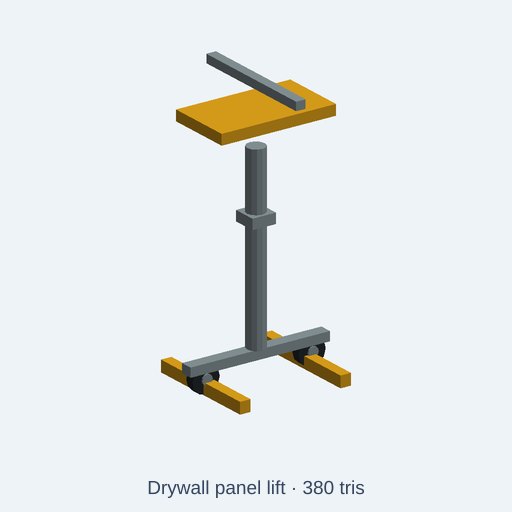
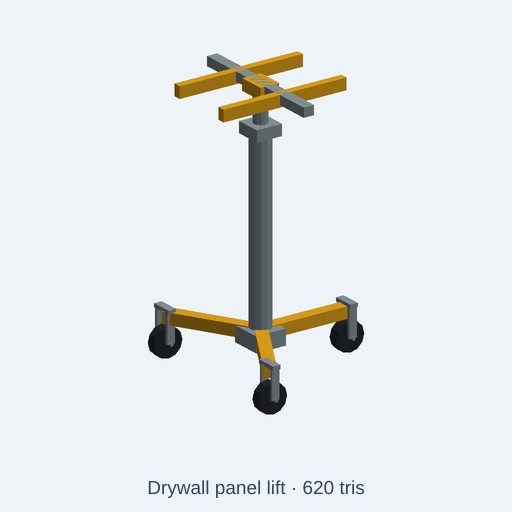
fix(catalog): connect lift supports and contain cylinder bank

Changed region(s): [[0.2812, 0.0938, 0.7188, 0.8125], [0.5938, 0.9375, 0.625, 0.9688]]

diff --git a/tests/integration/catalog/assetSupportContinuity.test.ts b/tests/integration/catalog/assetSupportContinuity.test.ts
@@ -1,0 +1,155 @@
+// SPDX-License-Identifier: MIT
+// Static CC0 prop geometry only. These tests do not certify load or pressure capacity.
+import { readFileSync } from 'node:fs';
+import { resolve } from 'node:path';
+import { NodeIO } from '@gltf-transform/core';
+import { beforeAll, describe, expect, it } from 'vitest';
+import { initOcct } from '../../../src/kernel/backends/occt/occtBackend';
+import { buildCatalogAssetWithGlb } from '../../../src/agent/catalog/buildCatalog';
+import { runAndExport } from '../../../src/agent/script-runtime/export';
+
+type Bounds = { min: number[]; max: number[] };
+const root = resolve(import.meta.dirname, '../../..');
+const liftFile = 'catalog/kits/construction-equipment/drywall-panel-lift.kcad.ts';
+const bankFile = 'catalog/kits/grid-substation/substation-fire-suppression-cylinder-bank.kcad.ts';
+const read = (file: string) => readFileSync(resolve(root, file), 'utf8');
+const tolerance = 0.05; // Native GLB positions, in mm.
+
+async function namedBounds(bytes: Uint8Array): Promise<Map<string, Bounds>> {
+  const doc = await new NodeIO().readBinary(bytes);
+  const result = new Map<string, Bounds>();
+  for (const node of doc.getRoot().listNodes()) {
+    const mesh = node.getMesh();
+    if (!mesh) continue;
+    const matrix = node.getWorldMatrix();
+    const points = mesh.listPrimitives().flatMap((primitive) => {
+      const position = primitive.getAttribute('POSITION');
+      if (!position) return [];
+      return Array.from({ length: position.getCount() }, (_, index) => {
+        const point = position.getElement(index, []);
+        return [0, 1, 2].map((axis) => 1000 * (matrix[axis]! * point[0]!
+          + matrix[axis + 4]! * point[1]! + matrix[axis + 8]! * point[2]! + matrix[axis + 12]!));
+      });
+    });
+    result.set(node.getName(), {
+      min: [0, 1, 2].map((axis) => Math.min(...points.map((point) => point[axis]!))),
+      max: [0, 1, 2].map((axis) => Math.max(...points.map((point) => point[axis]!))),
+    });
+  }
+  return result;
+}
+
+const touches = (a: Bounds, b: Bounds) => [0, 1, 2].every((axis) =>
+  a.max[axis]! + tolerance >= b.min[axis]! && b.max[axis]! + tolerance >= a.min[axis]!);
+const center = (bounds: Bounds, axis: number) => (bounds.min[axis]! + bounds.max[axis]!) / 2;
+
+function bankFailures(parts: Map<string, Bounds>): string[] {
+  const failures: string[] = [];
+  const rack = parts.get('rack-base')!;
+  const header = parts.get('manifold-header')!;
+  for (let i = 1; i <= 5; i++) {
+    const bottle = parts.get(`cylinder-${i}`);
+    const valve = parts.get(`valve-${i}`);
+    const branch = parts.get(`manifold-branch-${i}`);
+    if (!bottle || !valve) { failures.push(`bottle-${i}: missing`); continue; }
+    if ([0, 2].some((axis) => bottle.min[axis]! < rack.min[axis]! - tolerance
+      || bottle.max[axis]! > rack.max[axis]! + tolerance)) failures.push(`bottle-${i}: outside rack`);
+    if (Math.abs(bottle.min[1]! - rack.max[1]!) > tolerance) failures.push(`bottle-${i}: unseated`);
+    if (!touches(bottle, valve)) failures.push(`valve-${i}: floating`);
+    if (!branch || !touches(branch, valve) || !touches(branch, header)) failures.push(`branch-${i}: disconnected`);
+  }
+  return failures;
+}
+
+function casterFailures(parts: Map<string, Bounds>, index: number): string[] {
+  const failures: string[] = [];
+  const wheel = parts.get(`caster-${index}`), axle = parts.get(`caster-axle-${index}`);
+  const bridge = parts.get(`caster-bridge-${index}`), leg = parts.get(`base-leg-${index}`);
+  if (!wheel || !axle || !touches(wheel, axle)) failures.push(`caster-${index}: wheel-to-axle gap`);
+  if (!bridge || !leg || !touches(bridge, leg)) failures.push(`caster-${index}: bridge-to-leg gap`);
+  for (const side of [-1, 1]) {
+    const fork = parts.get(`caster-fork-${index}-${side}`);
+    if (!fork || !axle || !bridge || !touches(fork, axle) || !touches(fork, bridge))
+      failures.push(`caster-${index}: fork support gap`);
+  }
+  return failures;
+}
+
+function liftFailures(parts: Map<string, Bounds>): string[] {
+  const failures: string[] = [];
+  const wheels = [...parts.entries()].filter(([name]) => /^caster-\d$/.test(name));
+  const legs = [...parts.entries()].filter(([name]) => /^base-leg-\d$/.test(name));
+  if (wheels.length !== 3 || legs.length !== 3) failures.push('base is not a three-caster tripod');
+  for (const [name, wheel] of wheels) {
+    if (Math.abs(wheel.min[1]!) > tolerance) failures.push(`${name}: not grounded`);
+  }
+  for (let i = 0; i < 3; i++) failures.push(...casterFailures(parts, i));
+  const hub = parts.get('base-hub');
+  for (const [name, leg] of legs) if (!hub || !touches(hub, leg)) failures.push(`${name}: detached`);
+  const mast = parts.get('mast')!, cradle = parts.get('tilt-cradle')!, crossbar = parts.get('cradle-crossbar')!;
+  const extension = parts.get('mast-extension');
+  if (!extension || !touches(extension, mast) || !touches(extension, cradle)) failures.push('mast-to-cradle gap');
+  if (!touches(cradle, crossbar)) failures.push('crossbar-to-cradle gap');
+  for (const name of ['cradle-arm--1', 'cradle-arm-1']) {
+    const arm = parts.get(name);
+    if (!arm || !touches(arm, crossbar)) failures.push(`${name}: detached`);
+  }
+  if (wheels.length === 3) {
+    const vertices = wheels.map(([, b]) => [center(b, 0), center(b, 2)]);
+    const signs = vertices.map((a, i) => {
+      const b = vertices[(i + 1) % 3]!;
+      return a[0]! * b[1]! - a[1]! * b[0]!;
+    });
+    if (!(signs.every((v) => v > 100) || signs.every((v) => v < -100))) failures.push('mast outside caster support triangle');
+  }
+  return failures;
+}
+
+async function variant(file: string, code: string): Promise<Map<string, Bounds>> {
+  const output = await runAndExport({ code, fileName: file.split('/').at(-1)!,
+    scriptDir: resolve(root, file, '..'), format: 'glb',
+    options: { format: 'glb', style: 'lowpoly', lowpoly: { maxTriangles: 2200 } } });
+  expect(output.diagnostics.filter((d) => d.severity === 'error')).toEqual([]);
+  return namedBounds(output.bytes);
+}
+const withScale = (code: string, scale: number) => code.replace(/param\((['"])scale\1, 1,/, `param('scale', ${scale},`);
+
+beforeAll(async () => { await initOcct(); }, 60_000);
+
+describe('catalog support continuity', () => {
+  it('seats all five bottles within the rack and connects every valve to the manifold', async () => {
+    const { asset, glb } = await buildCatalogAssetWithGlb(root, bankFile);
+    expect(asset.stats.triangles).toBeLessThanOrEqual(asset.triangleBudget);
+    expect(asset.stats.minUpM).toBeCloseTo(0, 5);
+    expect(bankFailures(await namedBounds(glb))).toEqual([]);
+  }, 60_000);
+
+  it('rejects the original unsupported bottles and floating manifold valves', async () => {
+    const parts = await variant(bankFile, read('tests/fixtures/catalog/fireSuppressionCylinderBankOriginal.kcad.ts'));
+    expect(bankFailures(parts)).toEqual(expect.arrayContaining(['bottle-4: outside rack', 'bottle-5: outside rack', 'valve-1: floating']));
+  }, 60_000);
+
+  it('supports the lift cradle over a grounded caster triangle', async () => {
+    const { asset, glb } = await buildCatalogAssetWithGlb(root, liftFile);
+    expect(asset.stats.triangles).toBeLessThanOrEqual(asset.triangleBudget);
+    expect(asset.stats.minUpM).toBeCloseTo(0, 5);
+    expect(liftFailures(await namedBounds(glb))).toEqual([]);
+  }, 60_000);
+
+  it('rejects the original floating lift head and two-wheel base', async () => {
+    const parts = await variant(liftFile, read('tests/fixtures/catalog/drywallPanelLiftOriginal.kcad.ts'));
+    expect(liftFailures(parts)).toEqual(expect.arrayContaining(['base is not a three-caster tripod', 'mast-to-cradle gap', 'crossbar-to-cradle gap']));
+  }, 60_000);
+
+
+  it('rejects a missing caster bridge even when all three wheels remain grounded', async () => {
+    const code = read(liftFile).replace(/^ {2}add\(`caster-bridge-.*$/m, '');
+    expect(code).not.toBe(read(liftFile));
+    expect(liftFailures(await variant(liftFile, code))).toEqual(expect.arrayContaining(['caster-0: bridge-to-leg gap']));
+  }, 60_000);
+
+  it('preserves support contacts at both declared scale limits', async () => {
+    for (const scale of [0.65, 1.35]) expect(bankFailures(await variant(bankFile, withScale(read(bankFile), scale)))).toEqual([]);
+    for (const scale of [0.7, 1.3]) expect(liftFailures(await variant(liftFile, withScale(read(liftFile), scale)))).toEqual([]);
+  }, 60_000);
+});

diff --git a/catalog/kits/grid-substation/substation-fire-suppression-cylinder-bank.kcad.ts b/catalog/kits/grid-substation/substation-fire-suppression-cylinder-bank.kcad.ts
@@ -1,9 +1,9 @@
-// Fire suppression cylinder bank: Grouped suppression cylinders held in a rack with a shared manifold header. Low-poly visualization geometry in millimetres, Z up.
+// Fire suppression cylinder bank: Five suppression cylinders seated within one rack, connected to a shared manifold header. Static CC0 visualization, not pressure-rated manufacturer CAD. Low-poly visualization geometry in millimetres, Z up.
 meta({
   name: "substation-fire-suppression-cylinder-bank",
   license: "CC0-1.0",
   title: "Fire suppression cylinder bank",
-  description: "Grouped suppression cylinders held in a rack with a shared manifold header. Material controls: galvanized steel, safety red, brass; finish presets: weathered and maintenance.",
+  description: "Five suppression cylinders seated within one rack, connected to a shared manifold header. Static CC0 visualization, not pressure-rated manufacturer CAD. Material controls: galvanized steel, safety red, brass; finish presets: weathered and maintenance.",
   tags: ["grid substation", "electrical infrastructure", "utility yard", "low poly", "CC0", "maintenance and safety"],
   kit: "grid-substation",
   category: "prop",
@@ -22,22 +22,6 @@ presets({
 });
 const p = assembly("substation-fire-suppression-cylinder-bank");
 
-const ngon = (r: number, sides: number) => {
-  let outline = path().moveTo(r, 0);
-  for (let i = 1; i < sides; i++) {
-    const a = (2 * Math.PI * i) / sides;
-    outline = outline.lineTo(r * Math.cos(a), r * Math.sin(a));
-  }
-  return outline.close();
-};
-const taperedColumn = (height: number, radius: number, sides = 10) => {
-  const profiles = [ngon(radius * 1.2, sides), ngon(radius * .72, sides)];
-  return profiles[0].loft(profiles.slice(1), {
-    planes: [{ plane: 'XY' as const, origin: [0, 0, 0] as [number, number, number] },
-      { plane: 'XY' as const, origin: [0, 0, height] as [number, number, number] }],
-    ruled: true,
-  });
-};
 const beveledPlate = (width: number, depth: number, thickness: number, cut: number) =>
   path().moveTo(-width / 2 + cut, -depth / 2).lineTo(width / 2 - cut, -depth / 2)
     .lineTo(width / 2, -depth / 2 + cut).lineTo(width / 2, depth / 2 - cut)
@@ -45,18 +29,25 @@ const beveledPlate = (width: number, depth: number, thickness: number, cut: numb
     .lineTo(-width / 2, depth / 2 - cut).lineTo(-width / 2, -depth / 2 + cut)
     .close().extrude(thickness);
 
-p.part("rack-base", beveledPlate(2200, 900, 200, 54).translate(0, 0, 0).scale(scale).color(galvanizedSteel));
-p.part("top-retainer", beveledPlate(2200, 900, 160, 54).translate(0, 0, 1690).scale(scale).color(galvanizedSteel));
-p.part("cylinder-1", taperedColumn(1332, 162, 10).translate(-880, 0, 200).scale(scale).color(safetyRed));
-p.part("valve-1", box(170, 200, 130, true).translate(-880, 0, 1619).scale(scale).color(brass));
-p.part("cylinder-2", taperedColumn(1332, 162, 10).translate(0, 0, 200).scale(scale).color(safetyRed));
-p.part("valve-2", box(170, 200, 130, true).translate(0, 0, 1619).scale(scale).color(brass));
-p.part("cylinder-3", taperedColumn(1332, 162, 10).translate(880, 0, 200).scale(scale).color(safetyRed));
-p.part("valve-3", box(170, 200, 130, true).translate(880, 0, 1619).scale(scale).color(brass));
-p.part("cylinder-4", taperedColumn(1332, 162, 10).translate(1760, 0, 200).scale(scale).color(safetyRed));
-p.part("valve-4", box(170, 200, 130, true).translate(1760, 0, 1619).scale(scale).color(brass));
-p.part("cylinder-5", taperedColumn(1332, 162, 10).translate(2640, 0, 200).scale(scale).color(safetyRed));
-p.part("valve-5", box(170, 200, 130, true).translate(2640, 0, 1619).scale(scale).color(brass));
-p.part("manifold-header", box(2024, 150, 160, true).translate(0, 112.50, 1782).scale(scale).color(galvanizedSteel));
+const add = (name, shape, finish = galvanizedSteel) => p.part(name, shape.scale(scale).color(finish));
+add('rack-base', beveledPlate(2200, 900, 200, 54));
+// Five centres are symmetric about the rack origin; all bottles stay inside its footprint.
+for (let i = 0; i < 5; i++) {
+  const x = (i - 2) * 400;
+  add(`cylinder-${i + 1}`, cylinder(1332, 162, 12).translate(x, 0, 200), safetyRed);
+  add(`valve-${i + 1}`, box(100, 140, 130, true).translate(x, 0, 1597), brass);
+  add(`manifold-branch-${i + 1}`, cylinder(70, 18, 10).translate(x, 0, 1662));
+}
+// The branch reaches the header underside at z=1732; each valve seats on its bottle.
+add('manifold-header', box(2024, 60, 60, true).translate(0, 0, 1762));
+for (const side of [-1, 1]) {
+  for (const end of [-1, 1]) {
+    add(`rack-post-${side}-${end}`, box(70, 50, 1360, true).translate(end * 1040, side * 180, 880));
+  }
+  // Retainer straps sit against the cylinder flanks and join the rack posts.
+  for (const z of [650, 1280]) {
+    add(`retainer-${side}-${z}`, box(2150, 40, 65, true).translate(0, side * 180, z));
+  }
+}
 
 return p.model();

diff --git a/catalog/kits/construction-equipment/drywall-panel-lift.kcad.ts b/catalog/kits/construction-equipment/drywall-panel-lift.kcad.ts
@@ -1,10 +1,10 @@
 // SPDX-License-Identifier: CC0-1.0
-// Foldable panel lift with telescoping mast, tilting cradle, tripod legs and casters.
+// Static drywall panel lift with a nested mast, connected support cradle and three radial caster legs. CC0 visualization geometry, not manufacturer CAD or a load-rated or kinematically verified lift.
 meta({
   name: "drywall-panel-lift",
   license: 'CC0-1.0',
   title: "Drywall panel lift",
-  description: "Foldable panel lift with telescoping mast, tilting cradle, tripod legs and casters. Material controls: equipment enamel paint, tire and grip rubber, exposed structural steel; weathered and highVisibility presets.",
+  description: "Static drywall panel lift with a nested mast, connected support cradle and three radial caster legs. CC0 visualization geometry, not manufacturer CAD or a load-rated or kinematically verified lift. Material controls: equipment enamel paint, tire and grip rubber, exposed structural steel; weathered and highVisibility presets.",
   tags: ['construction equipment', 'roadworks', 'jobsite', 'low poly', 'CC0'],
   kit: 'construction-equipment',
   category: 'prop',
@@ -23,18 +23,30 @@ presets({
 });
 const p = assembly('drywall-panel-lift');
 const add = (name, shape, finish = equipmentPaintColor) => p.part(name, shape.scale(scale).color(finish));
-add('base-crossbar', box(800, 70, 52, true).translate(0, 0, 136), structuralSteelColor);
-add('caster--1', cylinder(52, 78, 12).rotateX(90).translate(-304, 26, 78), tireRubberColor);
-add('caster--1-hub--1', cylinder(8.32, 29.64, 10).rotateX(90).translate(-304, -30.16, 78), structuralSteelColor);
-add('caster--1-hub-1', cylinder(8.32, 29.64, 10).rotateX(90).translate(-304, 30.16, 78), structuralSteelColor);
-add('caster-1', cylinder(52, 78, 12).rotateX(90).translate(304, 26, 78), tireRubberColor);
-add('caster-1-hub--1', cylinder(8.32, 29.64, 10).rotateX(90).translate(304, -30.16, 78), structuralSteelColor);
-add('caster-1-hub-1', cylinder(8.32, 29.64, 10).rotateX(90).translate(304, 30.16, 78), structuralSteelColor);
-add('mast', cylinder(1023, 52, 8).translate(0, 0, 160), structuralSteelColor);
-add('mast-collar', box(135, 135, 58, true).translate(0, 0, 821), structuralSteelColor);
-add('tilt-cradle', box(656, 374.4, 60, true).translate(0, 0, 1350), equipmentPaintColor);
-add('cradle-crossbar', box(55, 736, 48, true).translate(0, 0, 1509), structuralSteelColor);
-add('base-leg-left', box(60, 648, 65, true).translate(-288, 0, 32.5), equipmentPaintColor);
-add('base-leg-right', box(60, 648, 65, true).translate(288, 0, 32.5), equipmentPaintColor);
+// Every radial leg reaches the central hub and one grounded caster assembly.
+add('base-hub', box(160, 160, 80, true).translate(0, 0, 180), structuralSteelColor);
+for (let i = 0; i < 3; i++) {
+  const angle = i * 120;
+  const radians = angle * Math.PI / 180;
+  const x = 460 * Math.cos(radians);
+  const y = 460 * Math.sin(radians);
+  add(`base-leg-${i}`, box(460, 60, 60, true).translate(230, 0, 195).rotateZ(angle));
+  add(`caster-${i}`, cylinder(50, 75, 12).rotateX(90).translate(x, y + 25, 75), tireRubberColor);
+  add(`caster-bridge-${i}`, box(40, 108, 20, true).translate(x, y, 230), structuralSteelColor);
+  add(`caster-axle-${i}`, cylinder(108, 9, 10).rotateX(90).translate(x, y + 54, 75), structuralSteelColor);
+  for (const side of [-1, 1]) {
+    add(`caster-fork-${i}-${side}`, box(40, 14, 155, true).translate(x, y + side * 40, 152.5), structuralSteelColor);
+  }
+}
+// Nested tubes overlap axially; the inner tube seats against the cradle underside.
+const outerMast = cylinder(1023, 52, 12).subtract(cylinder(1025, 40, 12).translate(0, 0, -1));
+add('mast', outerMast.translate(0, 0, 160), structuralSteelColor);
+add('mast-extension', cylinder(320, 35, 12).translate(0, 0, 1000), structuralSteelColor);
+add('mast-collar', box(135, 135, 58, true).translate(0, 0, 1154), structuralSteelColor);
+add('tilt-cradle', box(100, 140, 60, true).translate(0, 0, 1350));
+add('cradle-crossbar', box(55, 736, 48, true).translate(0, 0, 1356), structuralSteelColor);
+for (const side of [-1, 1]) {
+  add(`cradle-arm-${side}`, box(656, 40, 60, true).translate(0, side * 167, 1350));
+}
 
 return p.model();

diff --git a/tests/fixtures/catalog/fireSuppressionCylinderBankOriginal.kcad.ts b/tests/fixtures/catalog/fireSuppressionCylinderBankOriginal.kcad.ts
@@ -1,0 +1,62 @@
+// Fire suppression cylinder bank: Grouped suppression cylinders held in a rack with a shared manifold header. Low-poly visualization geometry in millimetres, Z up.
+meta({
+  name: "substation-fire-suppression-cylinder-bank",
+  license: "CC0-1.0",
+  title: "Fire suppression cylinder bank",
+  description: "Grouped suppression cylinders held in a rack with a shared manifold header. Material controls: galvanized steel, safety red, brass; finish presets: weathered and maintenance.",
+  tags: ["grid substation", "electrical infrastructure", "utility yard", "low poly", "CC0", "maintenance and safety"],
+  kit: "grid-substation",
+  category: "prop",
+  origin: "base",
+  compat: ["grid-substation", "utility-substation", "electrical-infrastructure"],
+  triangleBudget: 1800,
+});
+
+const scale = param("scale", 1, { label: "Overall scale", min: 0.65, max: 1.35, step: 0.05 });
+const galvanizedSteel = param('galvanizedSteel', '#7f8c92', { label: 'Galvanized steel' });
+const safetyRed = param('safetyRed', '#c7493c', { label: 'Safety red' });
+const brass = param('brass', '#bf9143', { label: 'Brass' });
+presets({
+  weathered: { galvanizedSteel: '#778080', safetyRed: '#aa5144', brass: '#a48349' },
+  maintenance: { safetyRed: '#e45b4d' },
+});
+const p = assembly("substation-fire-suppression-cylinder-bank");
+
+const ngon = (r: number, sides: number) => {
+  let outline = path().moveTo(r, 0);
+  for (let i = 1; i < sides; i++) {
+    const a = (2 * Math.PI * i) / sides;
+    outline = outline.lineTo(r * Math.cos(a), r * Math.sin(a));
+  }
+  return outline.close();
+};
+const taperedColumn = (height: number, radius: number, sides = 10) => {
+  const profiles = [ngon(radius * 1.2, sides), ngon(radius * .72, sides)];
+  return profiles[0].loft(profiles.slice(1), {
+    planes: [{ plane: 'XY' as const, origin: [0, 0, 0] as [number, number, number] },
+      { plane: 'XY' as const, origin: [0, 0, height] as [number, number, number] }],
+    ruled: true,
+  });
+};
+const beveledPlate = (width: number, depth: number, thickness: number, cut: number) =>
+  path().moveTo(-width / 2 + cut, -depth / 2).lineTo(width / 2 - cut, -depth / 2)
+    .lineTo(width / 2, -depth / 2 + cut).lineTo(width / 2, depth / 2 - cut)
+    .lineTo(width / 2 - cut, depth / 2).lineTo(-width / 2 + cut, depth / 2)
+    .lineTo(-width / 2, depth / 2 - cut).lineTo(-width / 2, -depth / 2 + cut)
+    .close().extrude(thickness);
+
+p.part("rack-base", beveledPlate(2200, 900, 200, 54).translate(0, 0, 0).scale(scale).color(galvanizedSteel));
+p.part("top-retainer", beveledPlate(2200, 900, 160, 54).translate(0, 0, 1690).scale(scale).color(galvanizedSteel));
+p.part("cylinder-1", taperedColumn(1332, 162, 10).translate(-880, 0, 200).scale(scale).color(safetyRed));
+p.part("valve-1", box(170, 200, 130, true).translate(-880, 0, 1619).scale(scale).color(brass));
+p.part("cylinder-2", taperedColumn(1332, 162, 10).translate(0, 0, 200).scale(scale).color(safetyRed));
+p.part("valve-2", box(170, 200, 130, true).translate(0, 0, 1619).scale(scale).color(brass));
+p.part("cylinder-3", taperedColumn(1332, 162, 10).translate(880, 0, 200).scale(scale).color(safetyRed));
+p.part("valve-3", box(170, 200, 130, true).translate(880, 0, 1619).scale(scale).color(brass));
+p.part("cylinder-4", taperedColumn(1332, 162, 10).translate(1760, 0, 200).scale(scale).color(safetyRed));
+p.part("valve-4", box(170, 200, 130, true).translate(1760, 0, 1619).scale(scale).color(brass));
+p.part("cylinder-5", taperedColumn(1332, 162, 10).translate(2640, 0, 200).scale(scale).color(safetyRed));
+p.part("valve-5", box(170, 200, 130, true).translate(2640, 0, 1619).scale(scale).color(brass));
+p.part("manifold-header", box(2024, 150, 160, true).translate(0, 112.50, 1782).scale(scale).color(galvanizedSteel));
+
+return p.model();

diff --git a/tests/fixtures/catalog/drywallPanelLiftOriginal.kcad.ts b/tests/fixtures/catalog/drywallPanelLiftOriginal.kcad.ts
@@ -1,0 +1,40 @@
+// SPDX-License-Identifier: CC0-1.0
+// Foldable panel lift with telescoping mast, tilting cradle, tripod legs and casters.
+meta({
+  name: "drywall-panel-lift",
+  license: 'CC0-1.0',
+  title: "Drywall panel lift",
+  description: "Foldable panel lift with telescoping mast, tilting cradle, tripod legs and casters. Material controls: equipment enamel paint, tire and grip rubber, exposed structural steel; weathered and highVisibility presets.",
+  tags: ['construction equipment', 'roadworks', 'jobsite', 'low poly', 'CC0'],
+  kit: 'construction-equipment',
+  category: 'prop',
+  origin: 'base',
+  compat: ['construction', 'roadworks', 'jobsite', 'site-plan'],
+  triangleBudget: 2200
+});
+
+const scale = param('scale', 1, { label: 'Overall scale', min: 0.7, max: 1.3, step: 0.05 });
+const equipmentPaintColor = param('equipmentPaintColor', '#e1a31b', { label: 'Equipment enamel paint' });
+const tireRubberColor = param('tireRubberColor', '#252a2d', { label: 'Tire and grip rubber' });
+const structuralSteelColor = param('structuralSteelColor', '#89969a', { label: 'Exposed structural steel' });
+presets({
+  weathered: { equipmentPaintColor: '#a87b36', tireRubberColor: '#3a3a37', structuralSteelColor: '#716b61' },
+  highVisibility: { equipmentPaintColor: '#f06b26', tireRubberColor: '#292e31', structuralSteelColor: '#c1c7c2' },
+});
+const p = assembly('drywall-panel-lift');
+const add = (name, shape, finish = equipmentPaintColor) => p.part(name, shape.scale(scale).color(finish));
+add('base-crossbar', box(800, 70, 52, true).translate(0, 0, 136), structuralSteelColor);
+add('caster--1', cylinder(52, 78, 12).rotateX(90).translate(-304, 26, 78), tireRubberColor);
+add('caster--1-hub--1', cylinder(8.32, 29.64, 10).rotateX(90).translate(-304, -30.16, 78), structuralSteelColor);
+add('caster--1-hub-1', cylinder(8.32, 29.64, 10).rotateX(90).translate(-304, 30.16, 78), structuralSteelColor);
+add('caster-1', cylinder(52, 78, 12).rotateX(90).translate(304, 26, 78), tireRubberColor);
+add('caster-1-hub--1', cylinder(8.32, 29.64, 10).rotateX(90).translate(304, -30.16, 78), structuralSteelColor);
+add('caster-1-hub-1', cylinder(8.32, 29.64, 10).rotateX(90).translate(304, 30.16, 78), structuralSteelColor);
+add('mast', cylinder(1023, 52, 8).translate(0, 0, 160), structuralSteelColor);
+add('mast-collar', box(135, 135, 58, true).translate(0, 0, 821), structuralSteelColor);
+add('tilt-cradle', box(656, 374.4, 60, true).translate(0, 0, 1350), equipmentPaintColor);
+add('cradle-crossbar', box(55, 736, 48, true).translate(0, 0, 1509), structuralSteelColor);
+add('base-leg-left', box(60, 648, 65, true).translate(-288, 0, 32.5), equipmentPaintColor);
+add('base-leg-right', box(60, 648, 65, true).translate(288, 0, 32.5), equipmentPaintColor);
+
+return p.model();
